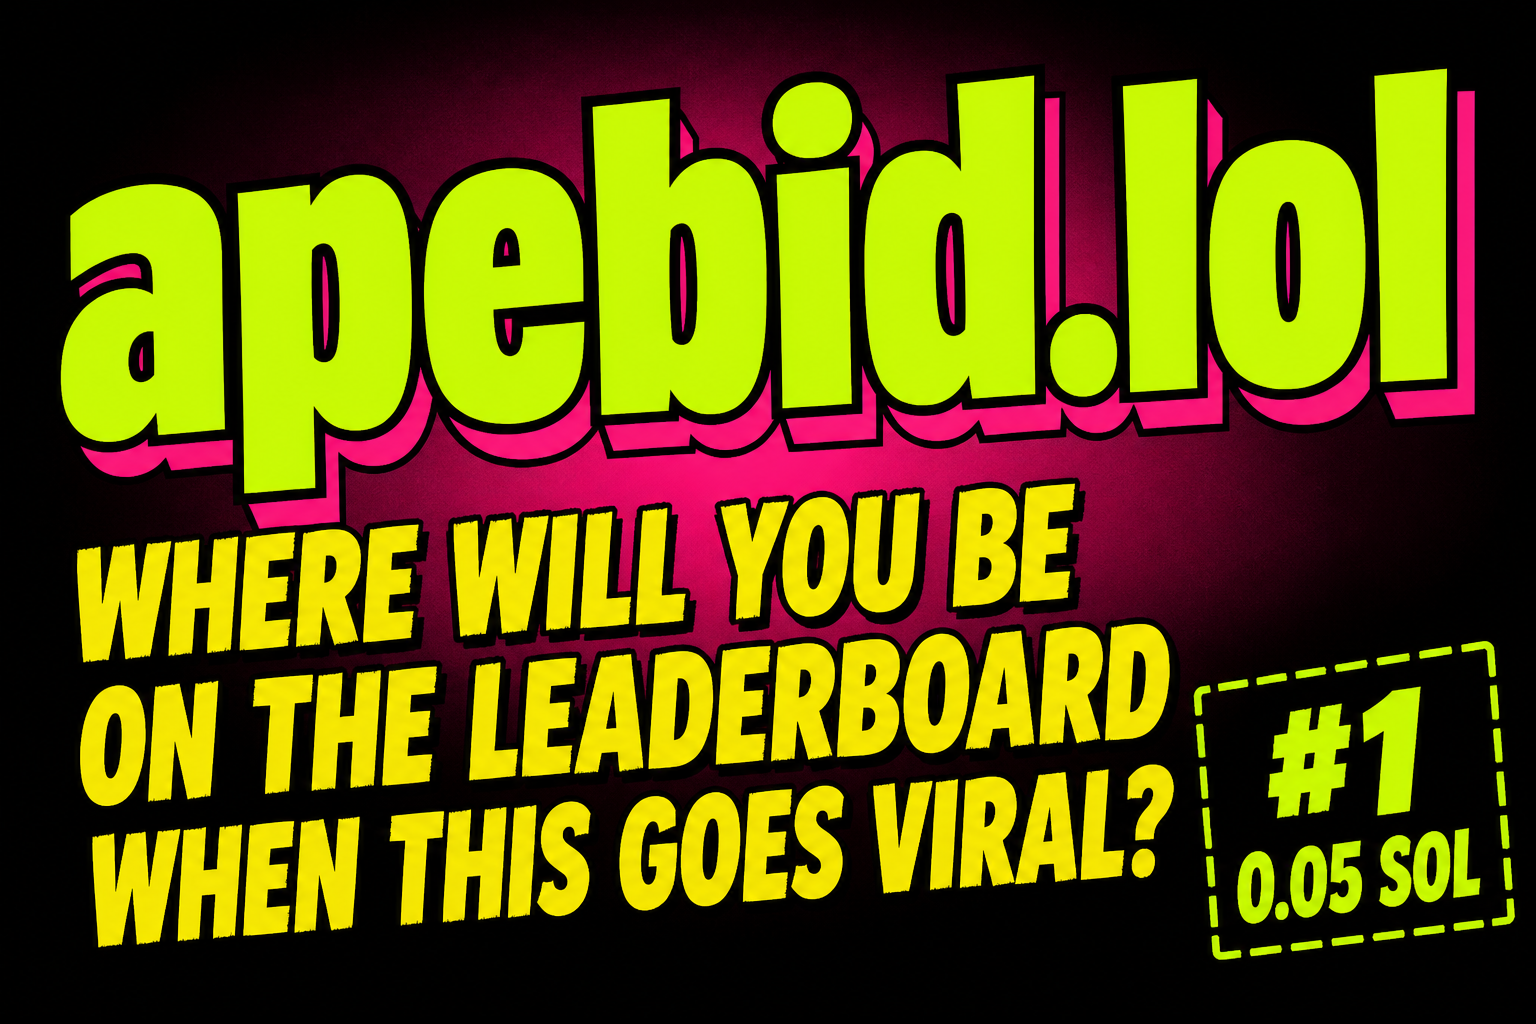
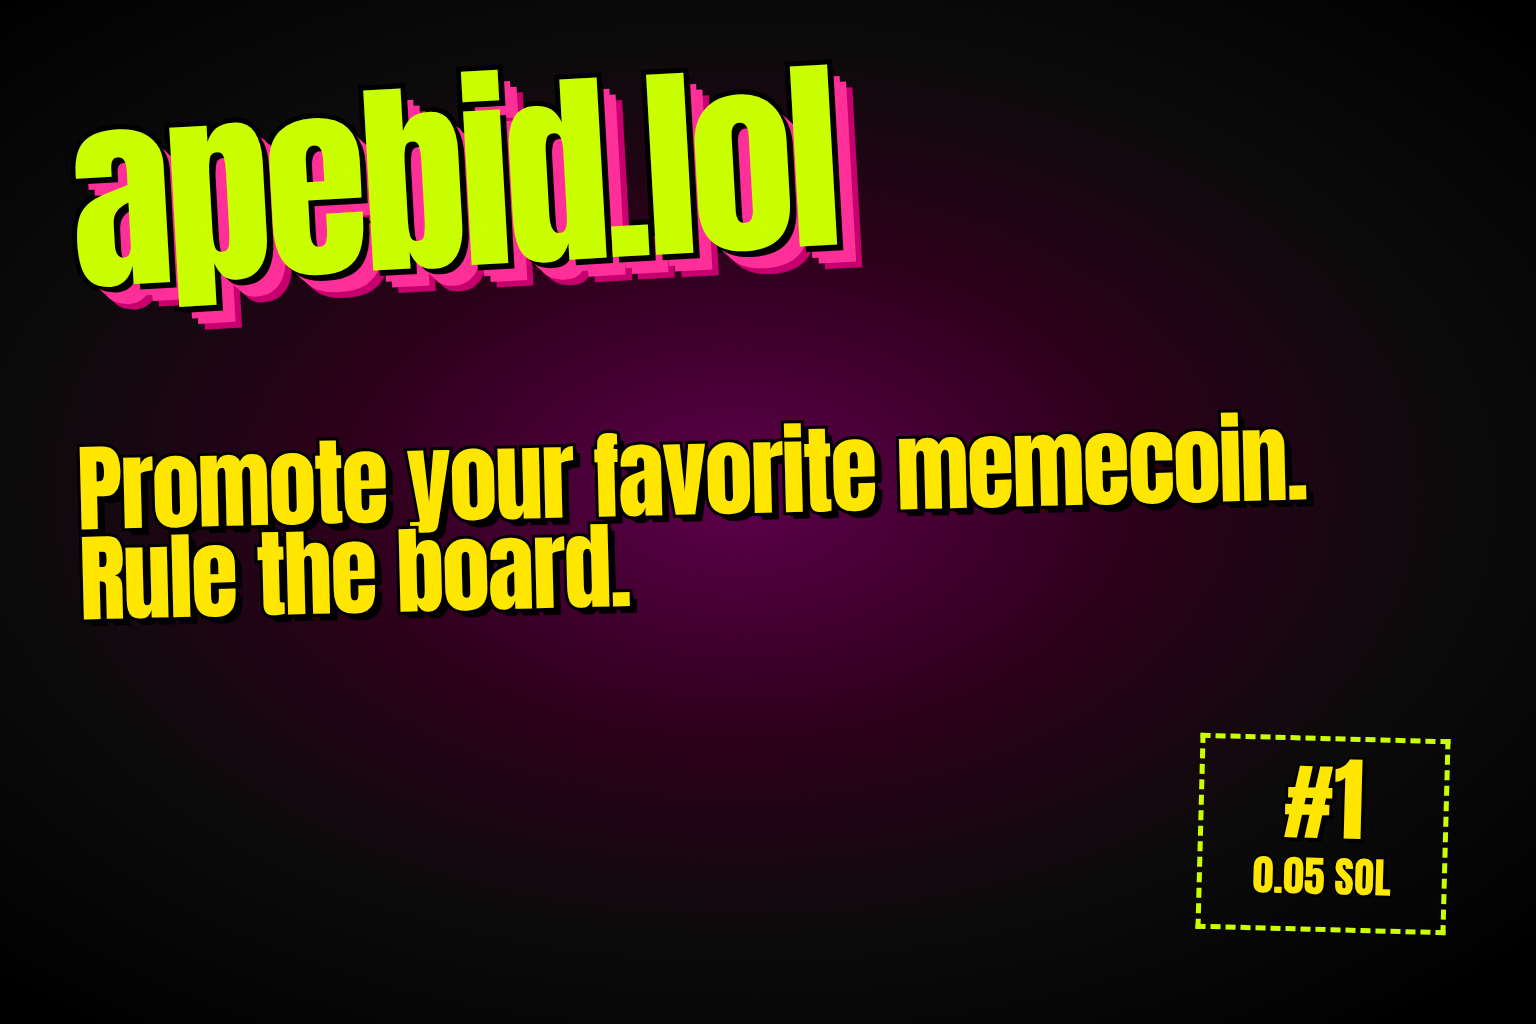
Swap hero and OG to promote-and-rule the board.
Replace the old viral-leaderboard question with Chris's new line on the homepage h1, metadata OG description, and painted og.png headline.

diff --git a/src/app/page.tsx b/src/app/page.tsx
@@ -6,7 +6,7 @@ export default function HomePage() {
     <>
       <section className="mx-auto max-w-5xl px-3 pt-5 sm:px-4 sm:pt-6">
         <h1 className="smash-hero text-center font-smash text-3xl text-white sm:text-5xl">
-          Where will you be on the leaderboard when this goes viral?
+          Promote your favorite memecoin. Rule the board.
         </h1>
         <p className="mx-auto mt-3 max-w-xl text-center text-sm text-yell">
           Not a token. No contract address. The board is the product.

diff --git a/src/app/layout.tsx b/src/app/layout.tsx
@@ -23,7 +23,7 @@ const smash = Anton({
 
 export const dynamic = "force-dynamic";
 
-const OG = "Where will you be on the leaderboard when this goes viral?";
+const OG = "Promote your favorite memecoin. Rule the board.";
 
 export const metadata: Metadata = {
   metadataBase: new URL("https://www.apebid.lol"),
